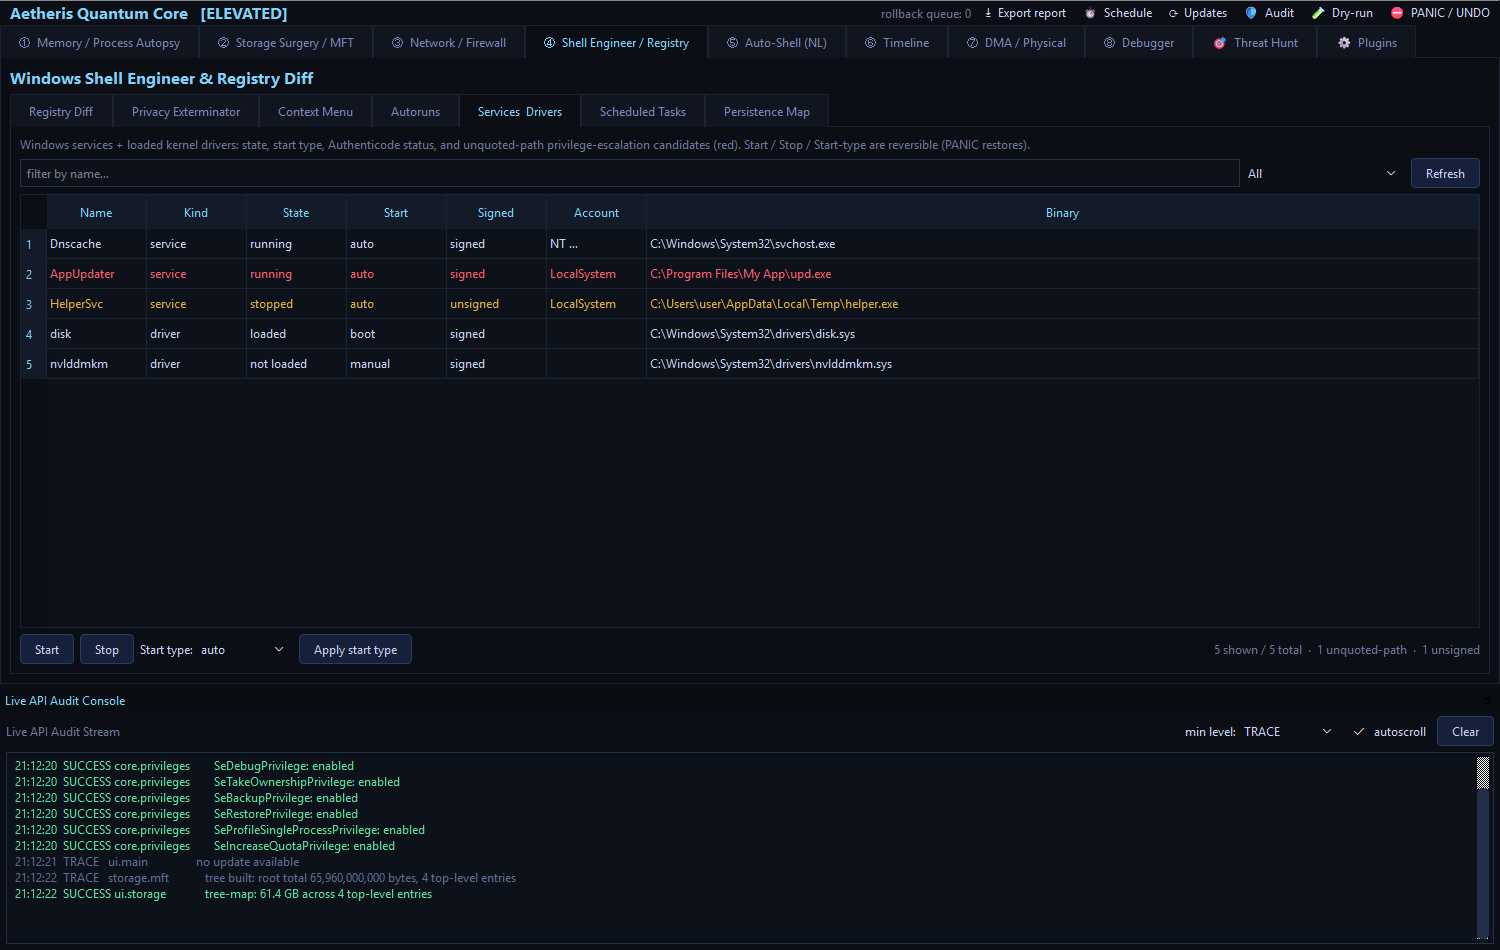
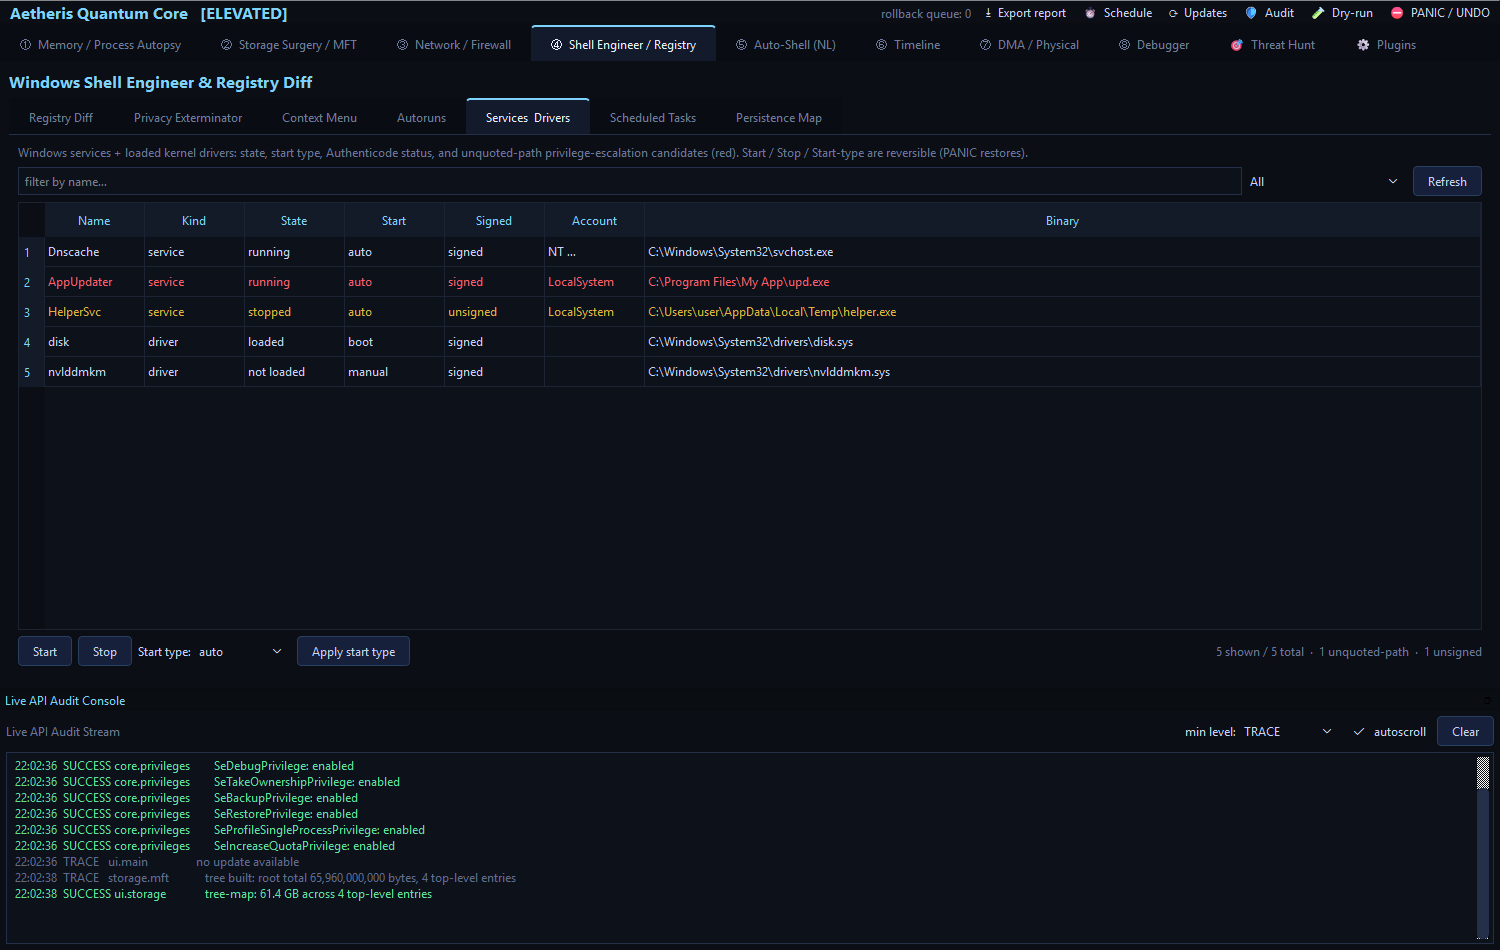
ui: modernize the top tab bar (flat, accented, professional)
Replace the boxy per-tab-bordered look with a flat document-mode tab
bar: a subtle darker tab strip, no per-tab borders, rounded top corners,
muted text with a clear hover state, and the active tab lifted with a
2px cyan top-accent and brighter text. Regenerated all README
screenshots + walkthrough.gif to match (now via the deterministic,
leak-safe generator).

diff --git a/aetheris/ui/theme.py b/aetheris/ui/theme.py
@@ -6,13 +6,18 @@ from ..core.logbus import Level
 QSS = """
 * { font-family: 'Segoe UI', 'Cascadia Code', sans-serif; font-size: 12px; }
 QMainWindow, QWidget { background: #0b0e14; color: #c8d3f5; }
-QTabWidget::pane { border: 1px solid #1c2333; top: -1px; }
+QTabWidget::pane { border: none; border-top: 1px solid #223049; background: #0b0e14; }
+QTabBar { qproperty-drawBase: 0; background: #090c12; }
 QTabBar::tab {
-    background: #11151f; color: #7a88b8; padding: 8px 18px;
-    border: 1px solid #1c2333; border-bottom: none;
+    background: transparent; color: #6f7d9c;
+    padding: 9px 20px; margin: 0;
+    border: none; border-top: 2px solid transparent;
+    border-top-left-radius: 4px; border-top-right-radius: 4px;
 }
-QTabBar::tab:selected { background: #0b0e14; color: #7dd3fc; }
-QTabBar::tab:hover { color: #c8d3f5; }
+QTabBar::tab:hover:!selected { color: #b7c3e8; background: #0e1522; }
+QTabBar::tab:selected {
+    color: #eaf0ff; background: #121a2b; border-top: 2px solid #7dd3fc;
+}
 QPushButton {
     background: #16203a; color: #c8d3f5; border: 1px solid #274060;
     padding: 6px 14px; border-radius: 4px;

diff --git a/aetheris/ui/mainwindow.py b/aetheris/ui/mainwindow.py
@@ -268,6 +268,9 @@ class MainWindow(QMainWindow):
 
     def _build_tabs(self) -> None:
         self.tabs = QTabWidget()
+        self.tabs.setDocumentMode(True)
+        self.tabs.setUsesScrollButtons(True)
+        self.tabs.tabBar().setExpanding(False)
         self.tabs.addTab(MemoryTab(), "①  Memory / Process Autopsy")
         self.tabs.addTab(StorageTab(), "②  Storage Surgery / MFT")
         self.tabs.addTab(NetworkTab(), "③  Network / Firewall")
